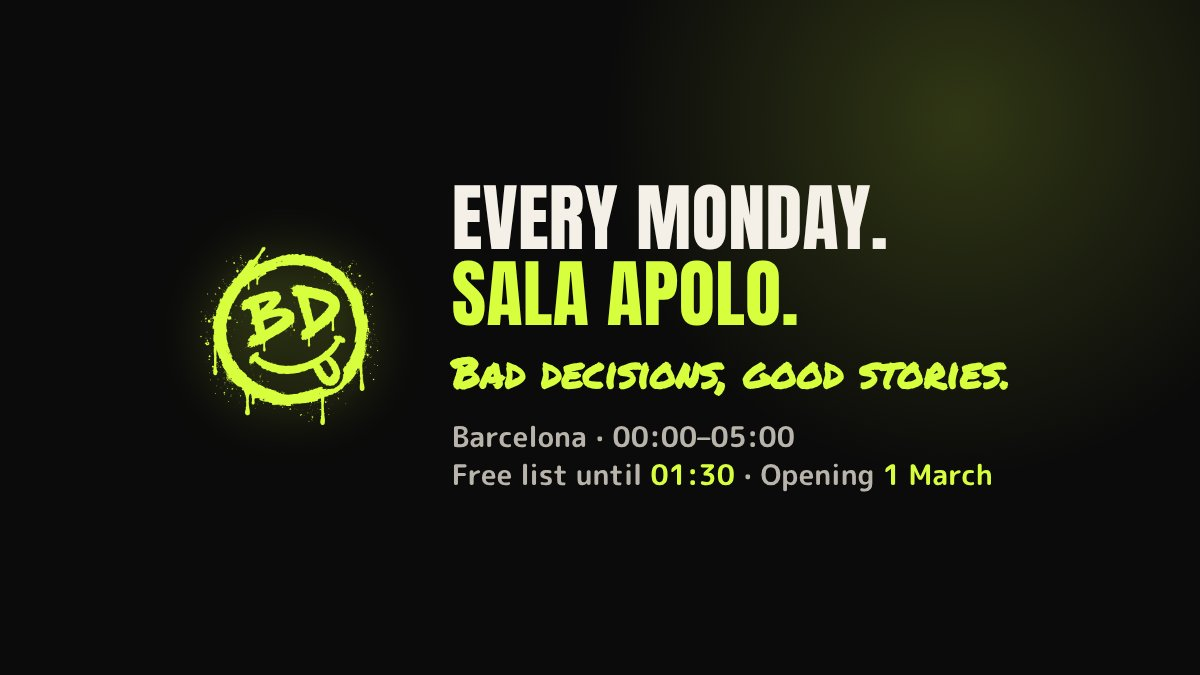
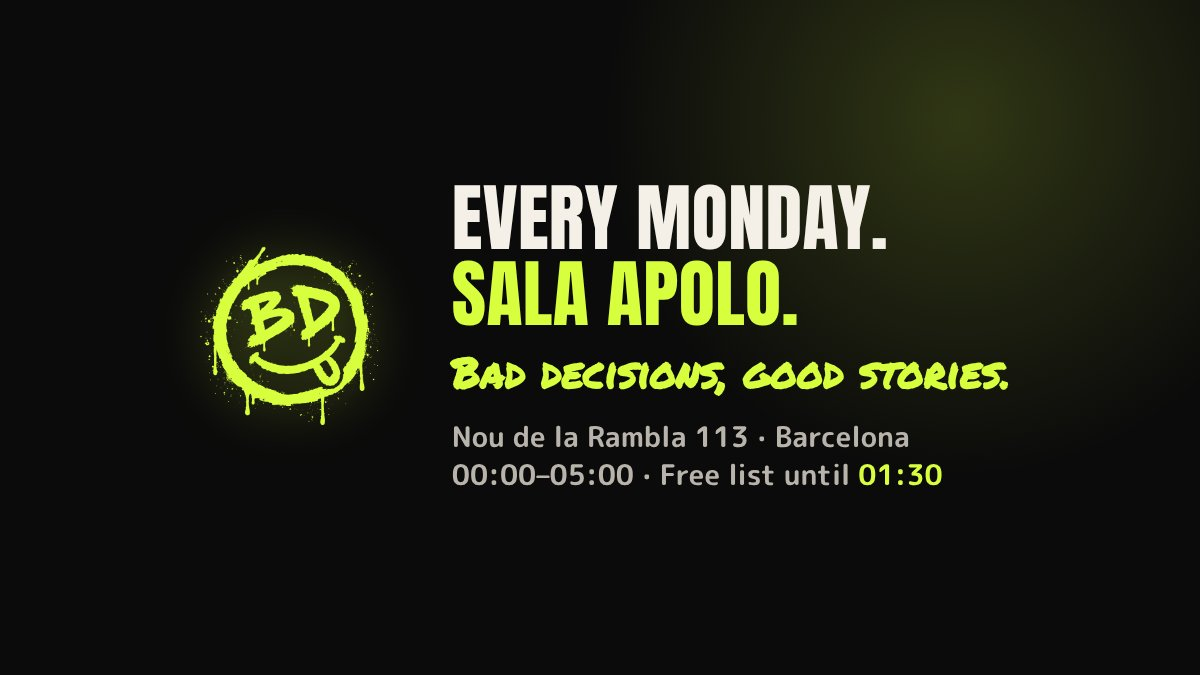
Share image: venue address instead of opening date
Claude-Session: https://claude.ai/code/session_01QaytdjiEQDD2dJYdDk6tGW

Changed region(s): [[0.37, 0.6222, 0.8325, 0.7467]]

diff --git a/src/og.html b/src/og.html
@@ -25,7 +25,7 @@ p b{color:#D8FF3E}
   <div>
     <h1>Every Monday.<br><span>Sala Apolo.</span></h1>
     <span class="brush">Bad decisions, good stories.</span>
-    <p>Barcelona · 00:00–05:00<br>Free list until <b>01:30</b> · Opening <b>1 March</b></p>
+    <p>Nou de la Rambla 113 · Barcelona<br>00:00–05:00 · Free list until <b>01:30</b></p>
   </div>
 </div>
 <script>if (innerHeight / innerWidth > 0.7) document.body.classList.add('tall');</script>
